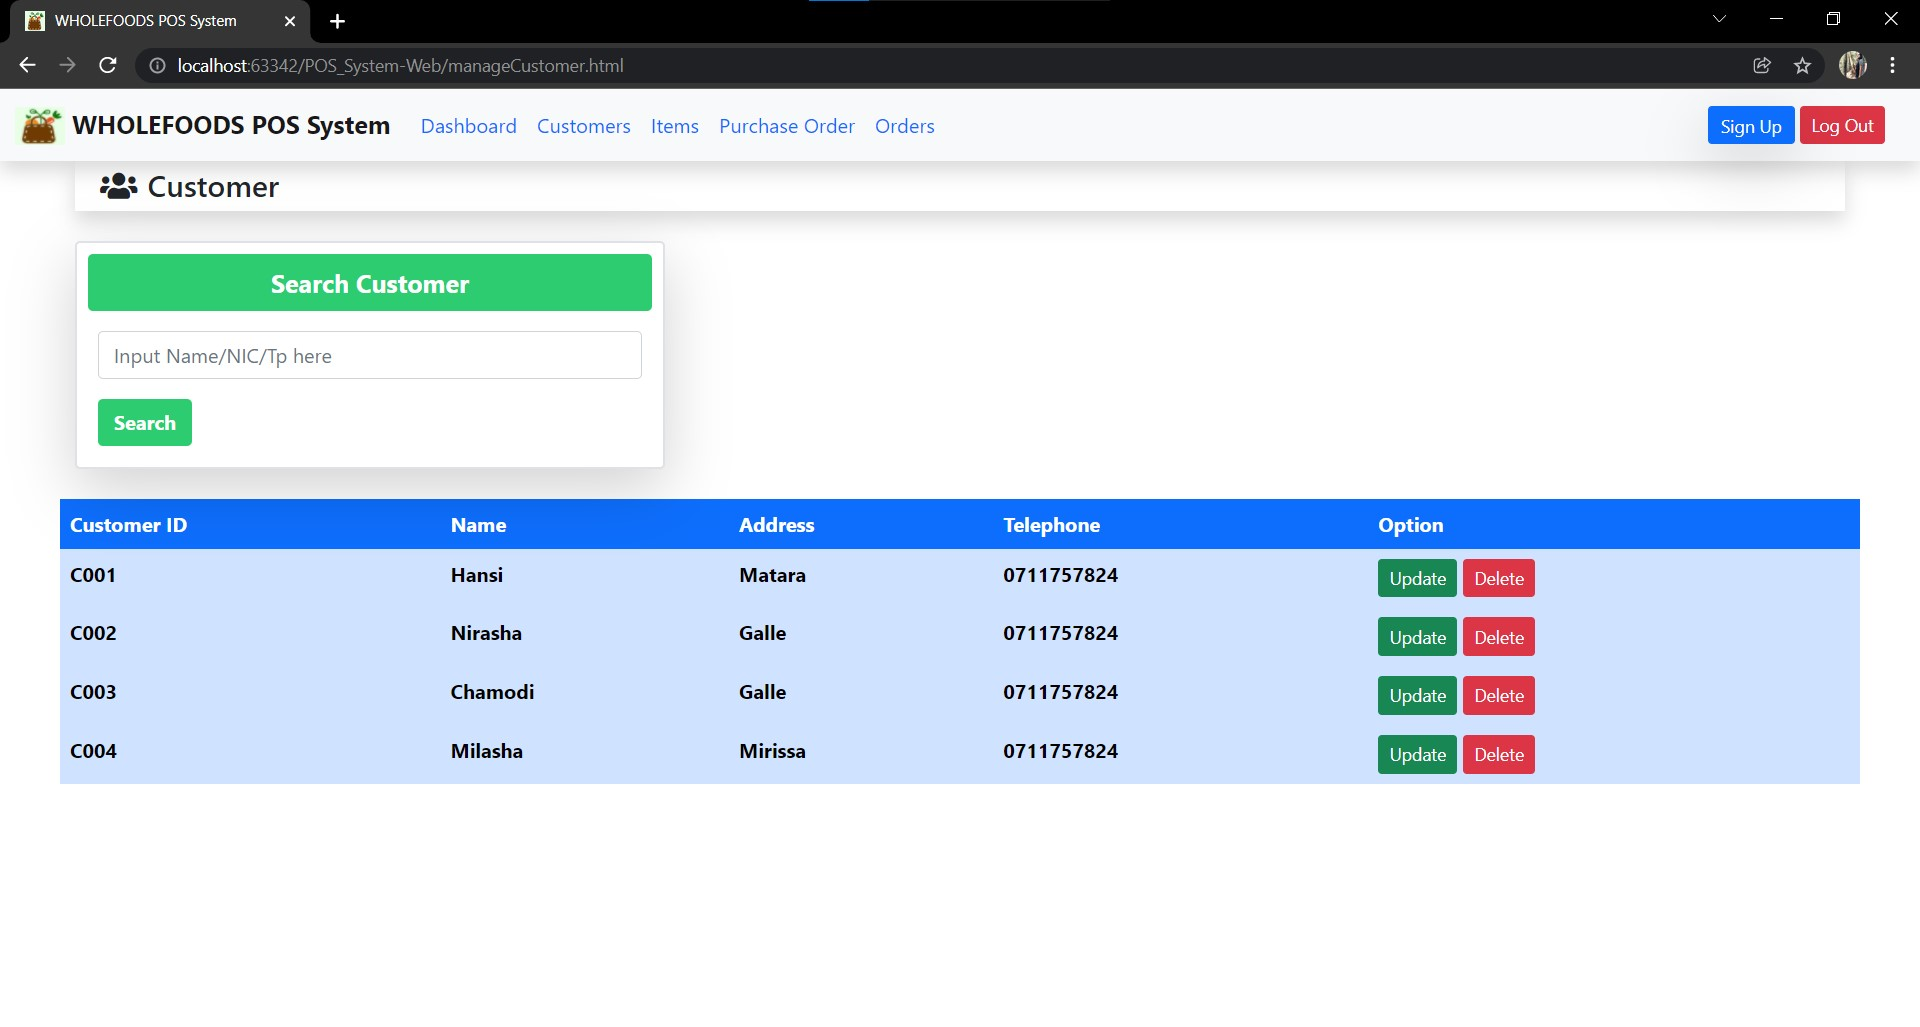
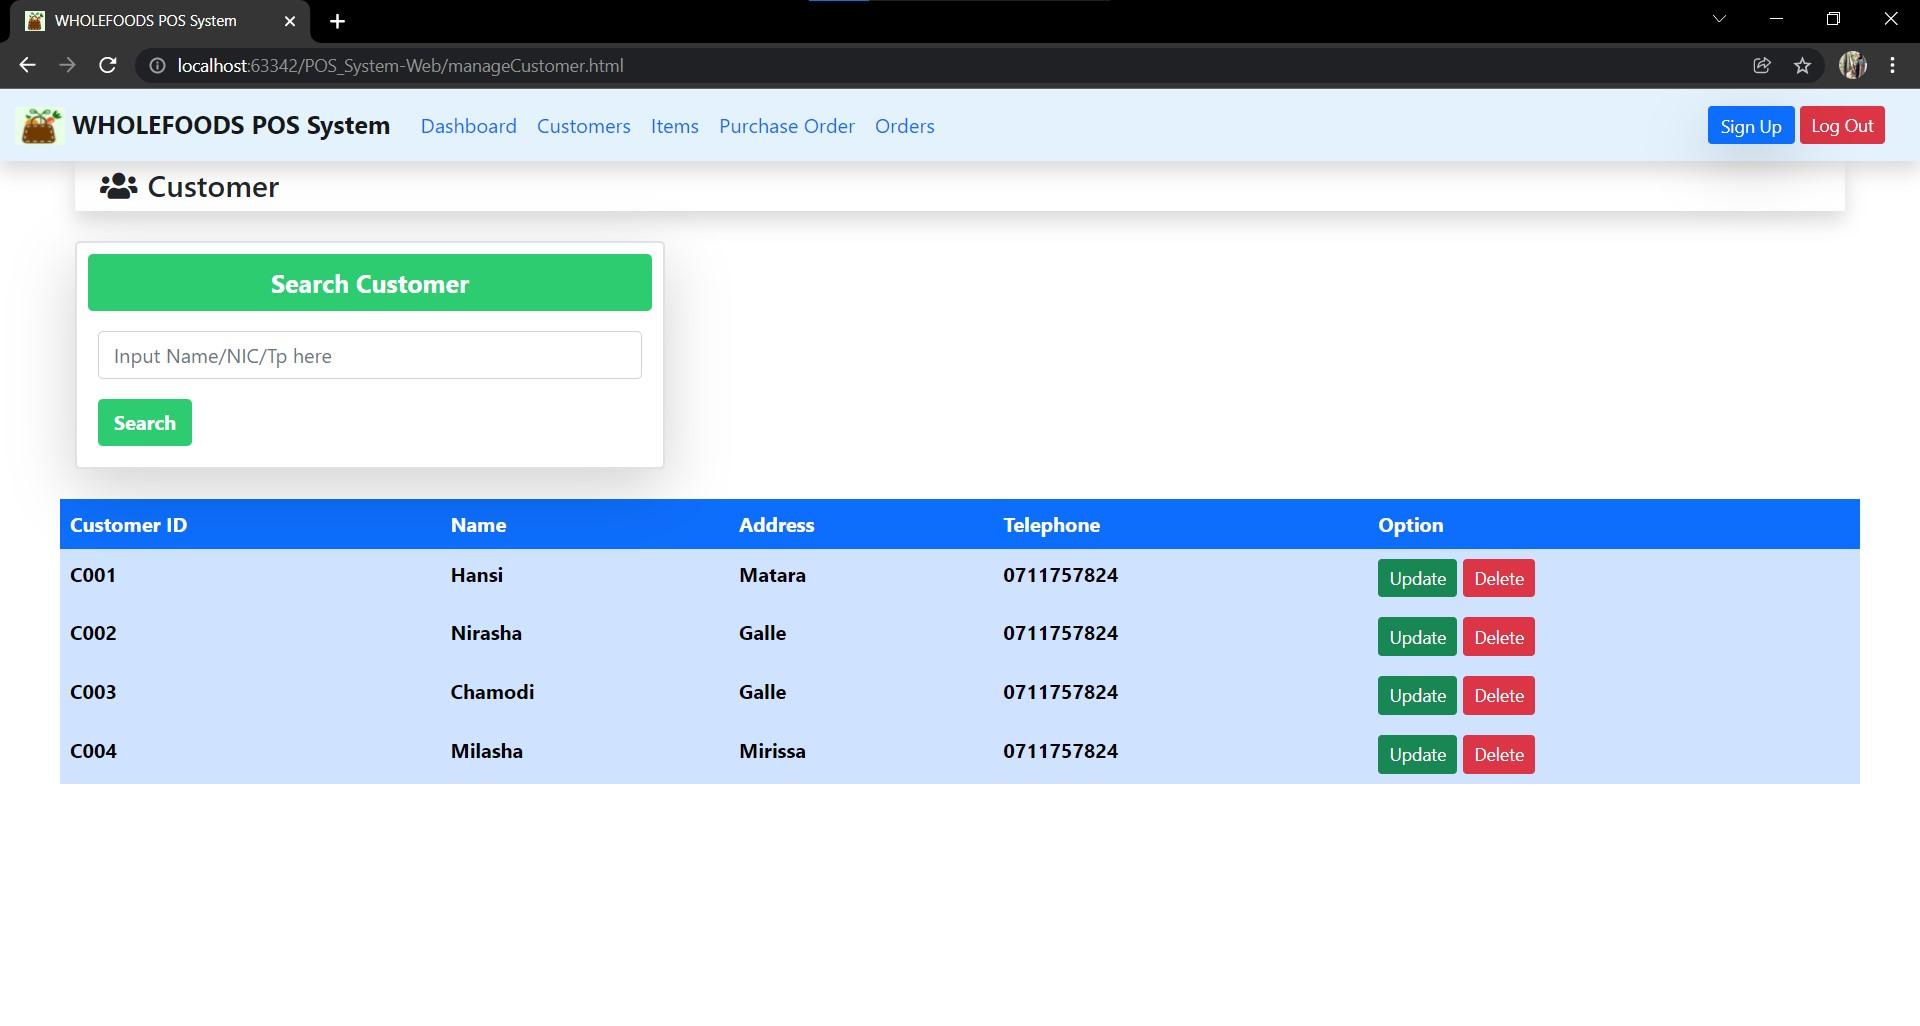
Update README

diff --git a/manageStore.html b/manageStore.html
@@ -36,7 +36,7 @@
 </head>
 <body>
 <section>
-    <nav class="navbar navbar-expand-lg navbar-light bg-light shadow ">
+    <nav class="navbar navbar-expand-lg navbar-light navbar-light shadow " style="background-color: #e3f2fd;">
         <div class="container-fluid">
             <a class="navbar-brand fw-bold" href="#">
                 <img src="assets/images/logo.png" alt="" width="40" height="30" class="d-inline-block align-text-top fw-bolder">

diff --git a/manageCustomer.html b/manageCustomer.html
@@ -34,7 +34,7 @@
 </head>
 <body>
 <section>
-  <nav class="navbar navbar-expand navbar-light bg-light shadow ">
+  <nav class="navbar navbar-expand navbar-light navbar-light shadow " style="background-color: #e3f2fd;">
     <div class="container-fluid">
       <a class="navbar-brand fw-bold" href="#">
         <img src="assets/images/logo.png" alt="" width="40" height="30" class="d-inline-block align-text-top fw-bolder">

diff --git a/README.md b/README.md
@@ -23,18 +23,20 @@
 #### Frameworks
 - Bootstrap
 ### Screenshots of the Application
-#### LogIn Page
+#### LogIn Form
 ![Screenshot](assets/images/logInPage.jpg)
 #### Dashboard
 ![Screenshot](assets/images/dashboard.jpg)
 #### Add New Customer Form
 ![Screenshot](assets/images/addNewCustomer.jpg)
-#### Customer Details Page
+#### Customer Details Form
 ![Screenshot](assets/images/customerDetails.jpg)
 #### Add New Item Form
 ![Screenshot](assets/images/addNewItem.jpg)
-#### Item Details Page
+#### Item Details Form
 ![Screenshot](assets/images/itemDetails.jpg)
 #### Purchase Order Form
 ![Screenshot](assets/images/placeOrder.jpg)
+#### Order Details Form
+![Screenshot](assets/images/orderDetails.jpg)
 
